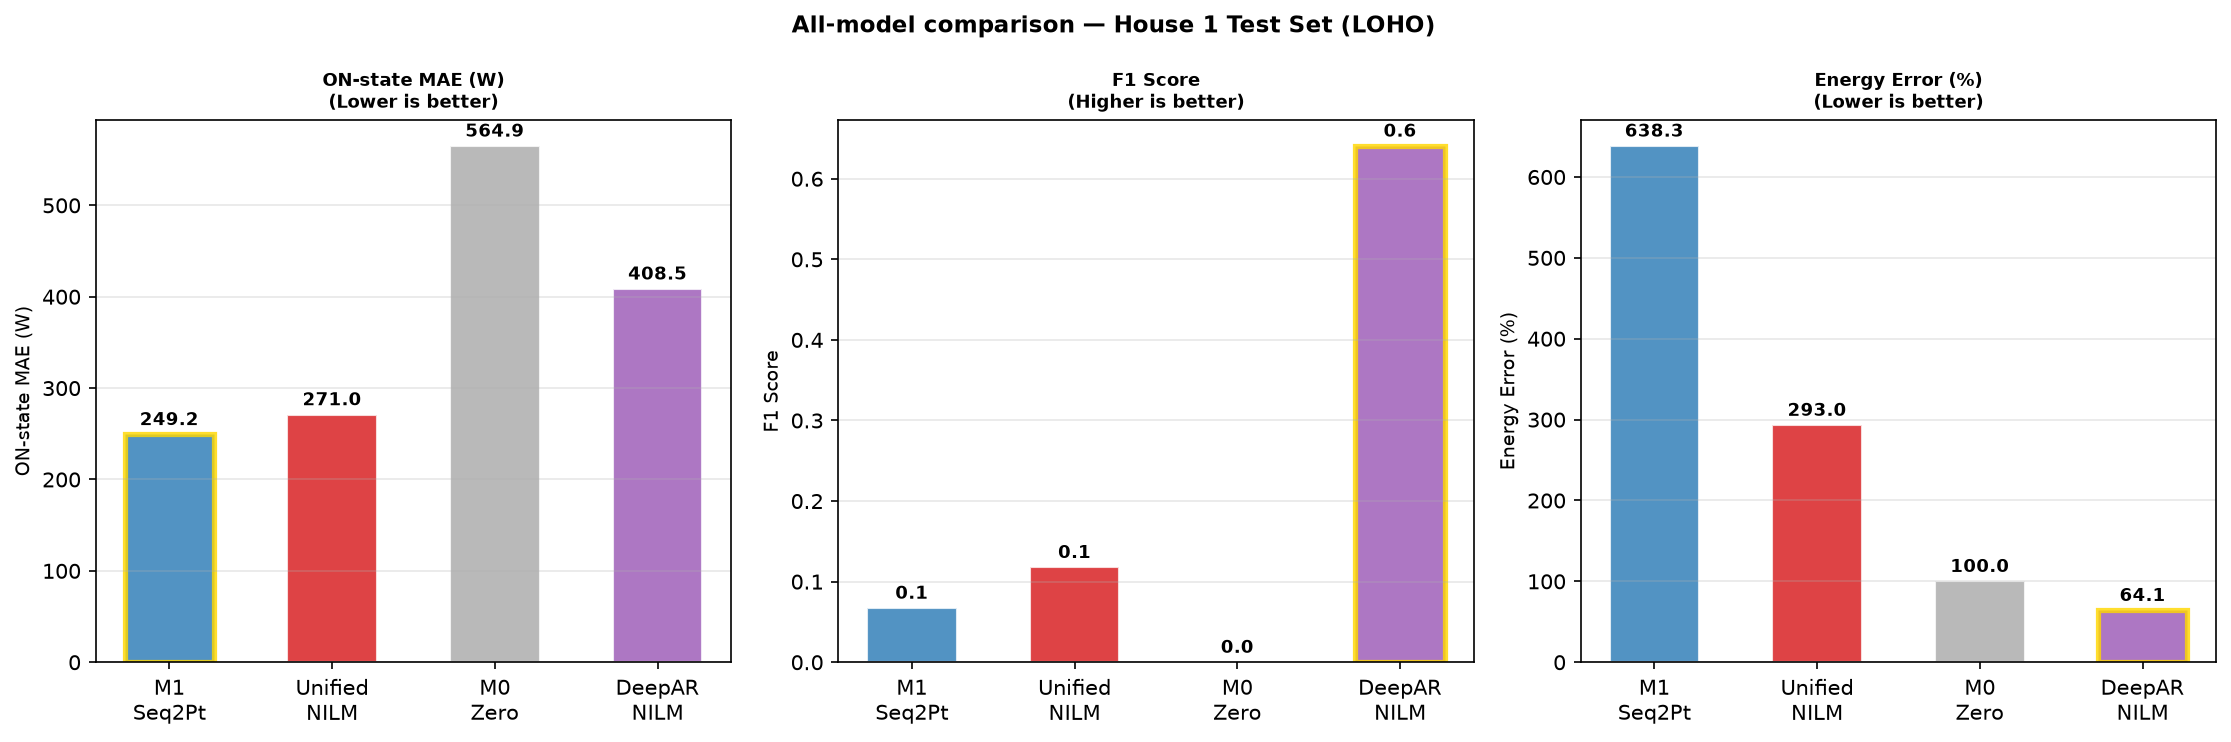
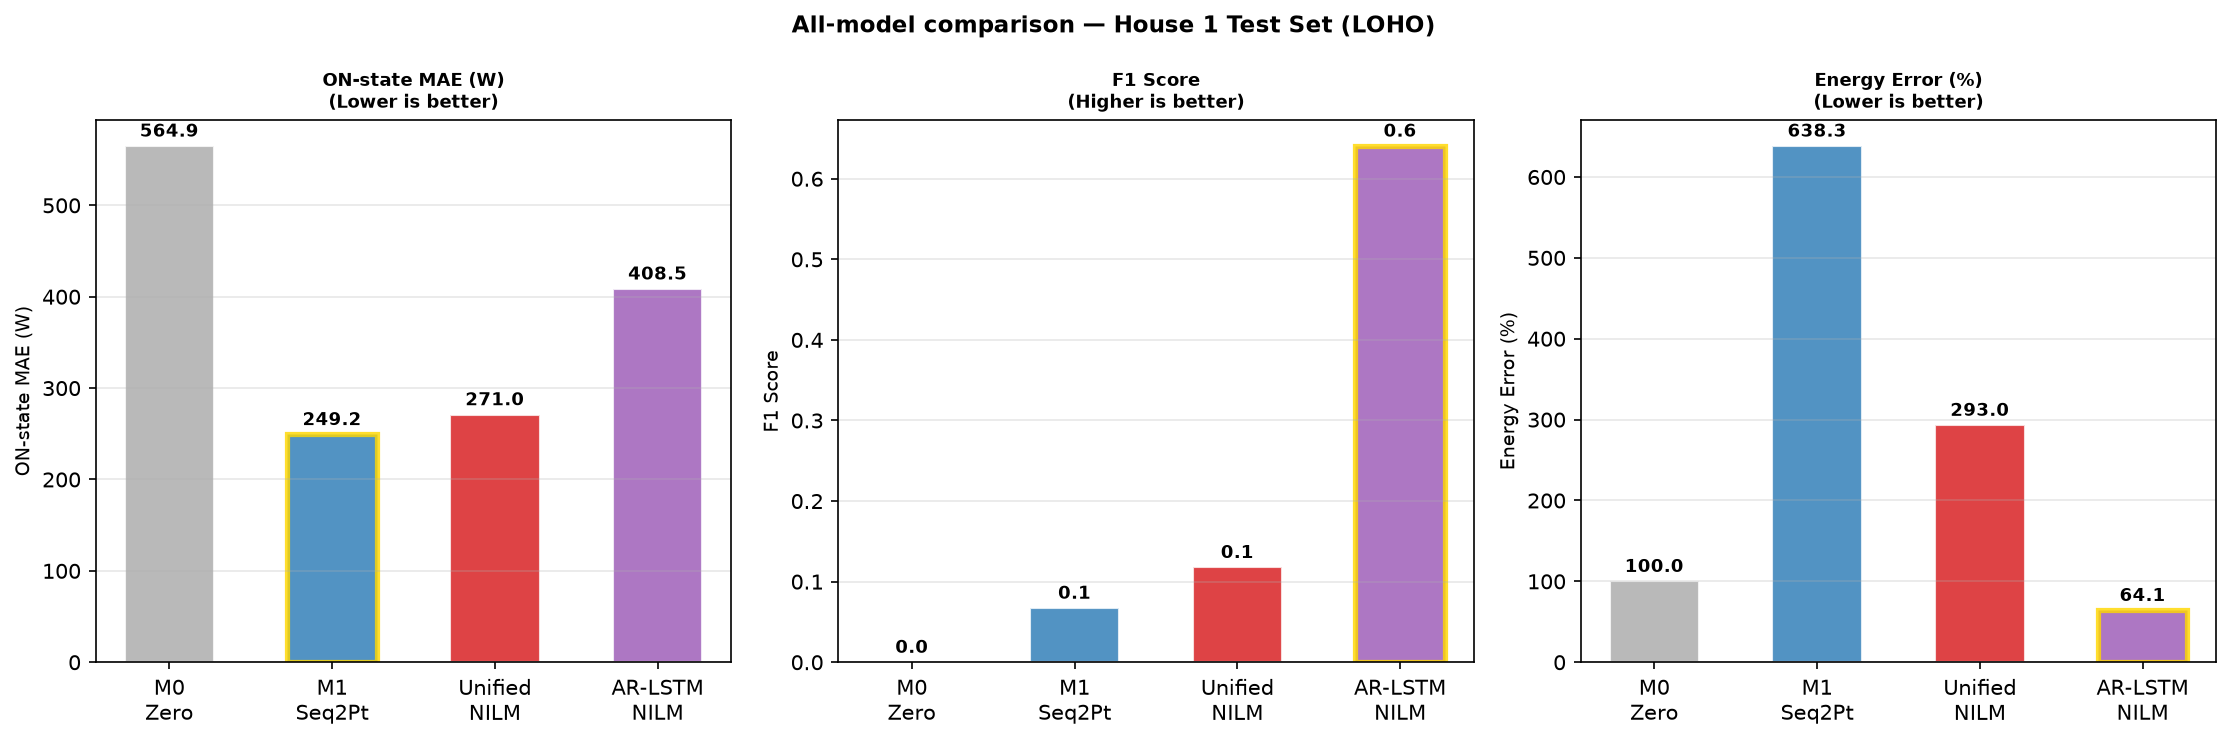
Fix DeepARNILM label in model comparison chart and metrics CSV
- Renamed 'DeepARNILM (ours)' -> 'ARNILM (ours)' in metrics_ar_lstm.csv
- Regenerated S3b_2_all_model_comparison.png with corrected bar label
- Fixed stray 'DEEPAR COMPLETE' print in 03b_ar_lstm.py -> 'AR-LSTM COMPLETE'

diff --git a/notebooks/03b_ar_lstm.py b/notebooks/03b_ar_lstm.py
@@ -529,7 +529,7 @@ plt.savefig(FIG_DIR / 'S3b_2_all_model_comparison.png', dpi=150, bbox_inches='ti
 print('  S3b_2_all_model_comparison.png')
 
 print('\n' + '=' * 80)
-print('DEEPAR COMPLETE')
+print('AR-LSTM COMPLETE')
 print('=' * 80)
 print(df_res[['mae','f1','energy_err_pct','constraint_viol_W']].round(3).to_string())
 print('=' * 80)
